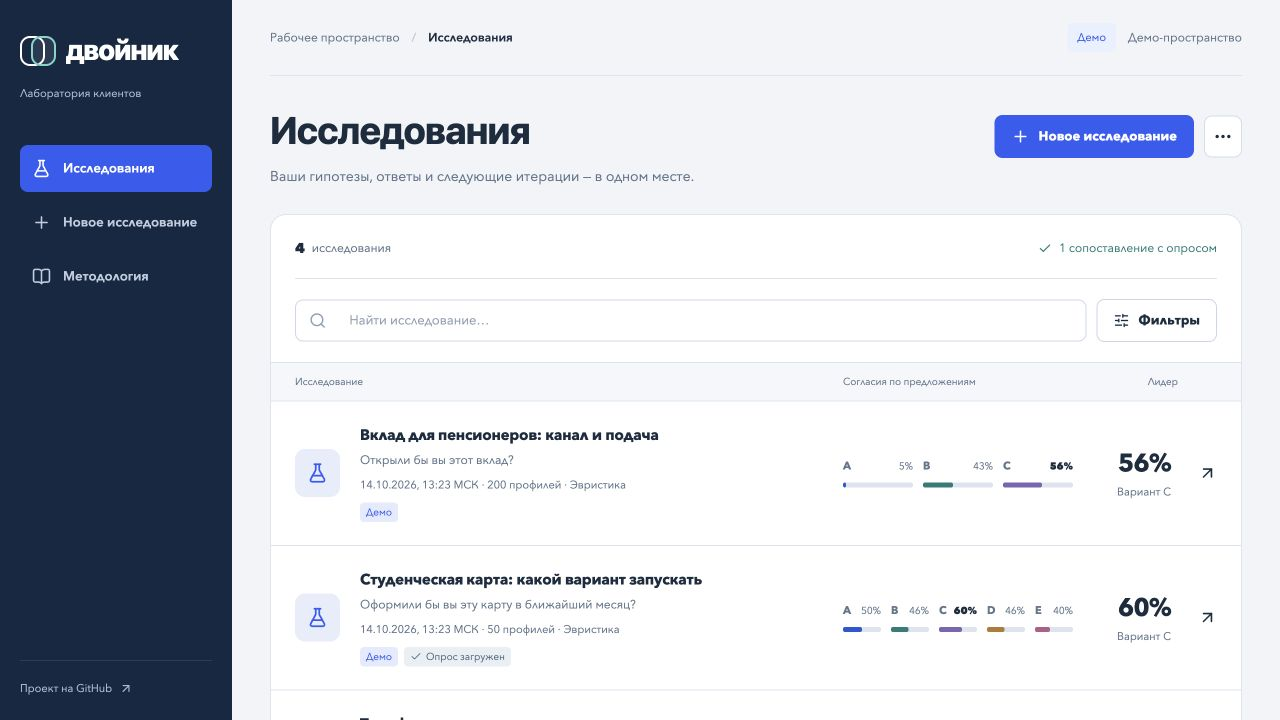
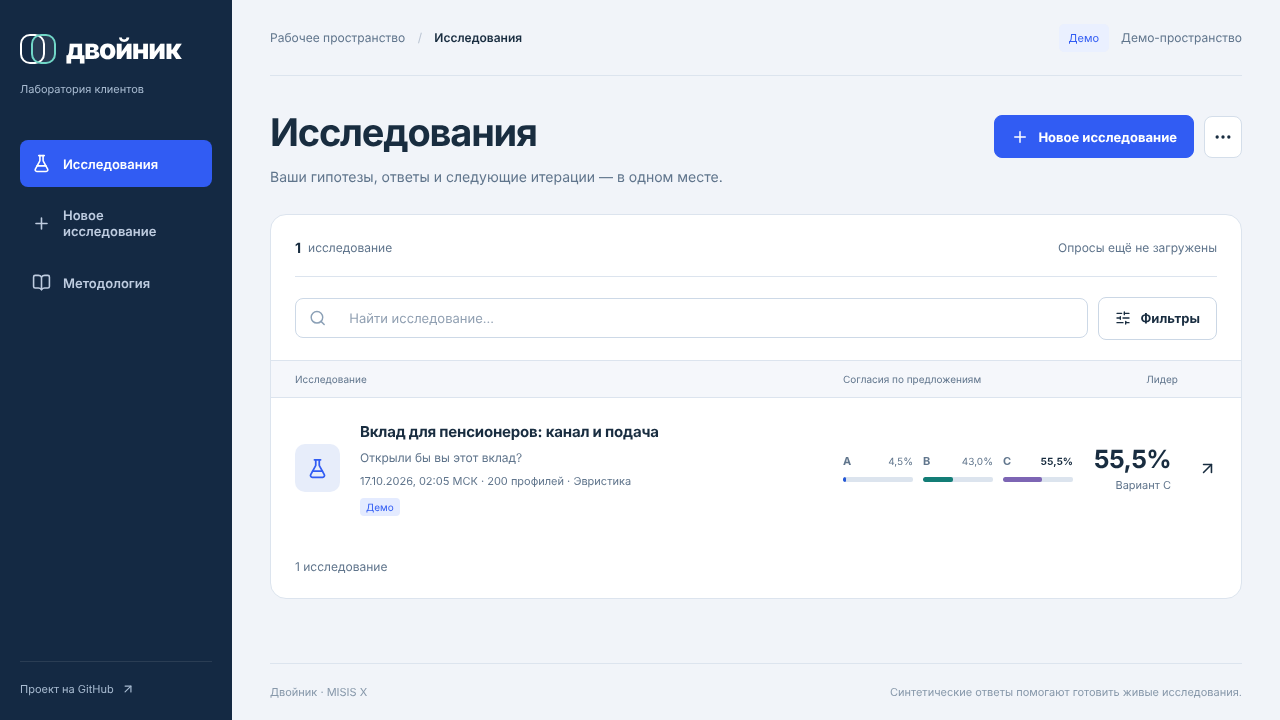
Document quality checks, live-check plan, run estimate and LLM cache; refresh screenshots
Claude-Session: https://claude.ai/code/session_01ShzBLrsk3WfFZuJPgdYgMs

diff --git a/README.md b/README.md
@@ -24,7 +24,10 @@
 | Популяция | Семь экспертных сегментов, настройка долей и точное число профилей после округления |
 | Симуляция | Демо без внешних запросов и OpenAI-совместимый LLM API; одинаковые профили для вариантов, фактический прогресс |
 | Результат | Матрица сегментов, разбор аудитории, интервалы, причины отказа и синтетические объяснения |
-| Живая проверка | Комплект опроса с анкетой и пустым CSV, предпросмотр ответов, ошибка долей, ранги и лидер; сохранение с защитой от конфликтов двух сессий |
+| Проверки качества | Сравнение с простым подходом (один запрос без персонажей), устойчивость лидера, предупреждение об однородных ответах LLM, повторы с соседними seed в CLI |
+| План живой проверки | Размер выборки для различения лидеров, предел разведки на 30 ответах, сегменты для отдельной проверки, вопросы для интервью из частых возражений |
+| Живая проверка | Комплект опроса с анкетой, пустым CSV и планом выборки, предпросмотр ответов, ошибка долей, ранги и лидер, ошибки двойников и простого подхода на одних данных; сохранение с защитой от конфликтов двух сессий |
+| Оценка запуска | Число запросов, токены и время до старта LLM-запуска; необязательный кэш проверенных ответов для следующих итераций |
 | Архив | Поиск, раскрываемые фильтры с индикатором, сравнение запусков, следующая итерация из снимка, импорт JSON и экспорт JSON/CSV |
 | Доступ | Локальные аккаунты, роли и архивы владельцев, HttpOnly-сессии, защита запросов и закрытые скачивания |
 
@@ -78,8 +81,10 @@ DVOINIK_AUTH_MODE=demo python serve.py
 
 ## От симуляции к живому опросу
 
-На вкладке «Проверка опросом» скачайте комплект ZIP: анкету с сохранёнными предложениями
-и вопросом, CSV для записи ответов и инструкцию исследователю. Анкета открывается в браузере
+На вкладке «Проверка опросом» сначала посмотрите план: сколько оценок нужно, чтобы различить
+лидеров симуляции, что заметит разведка на 30 ответах и какие вопросы задать в интервью.
+Затем скачайте комплект ZIP: анкету с сохранёнными предложениями и вопросом, CSV для записи
+ответов и инструкцию исследователю с тем же планом. Анкета открывается в браузере
 и подходит для печати; результаты симуляции, внутреннее описание и профили в неё не попадают.
 В интерфейсе можно раскрыть тексты анкеты и коды сегментов перед скачиванием.
 
@@ -92,6 +97,9 @@ DVOINIK_AUTH_MODE=demo python serve.py
 Загрузите заполненный CSV, изучите предпросмотр и сохраните проверку. Новая загрузка
 заменяет прежний опрос. Сопоставляйте варианты на сравнимых аудиториях: согласие в анкете
 не означает реальное оформление продукта и не подтверждает точность MVP.
+Если в снимке есть оценка простым подходом, рядом показывается, чья ошибка на этом опросе меньше.
+
+![План живой проверки: размер выборки и вопросы для интервью](docs/images/live-check.png)
 
 ![Подготовка опроса и загрузка ответов](docs/images/survey-preparation.png)
 

diff --git a/docs/development.md b/docs/development.md
@@ -137,7 +137,24 @@ DVOINIK_MOCK=0 LLM_BASE_URL=http://localhost:11434/v1 LLM_MODEL=qwen2.5:7b-instr
 параллельность ограничена. Неверный JSON и ошибки отделены от «нет», показывается покрытие.
 LLM-клиент закрывается после запуска. Seed воспроизводит профили и демо, не гарантирует ответы LLM.
 
+После симуляции выполняется один дополнительный запрос «простого подхода» без персонажей
+(температура 0); его ошибка не прерывает исследование и сохраняется в снимке.
+На шаге аудитории показывается оценка запуска: число запросов, токены и время.
+Задержку и цену можно уточнить через `DVOINIK_LLM_LATENCY_S` и `DVOINIK_PRICE_PER_1K_TOKENS`
+(`DVOINIK_PRICE_CURRENCY`, по умолчанию ₽); без цены показываются только объёмы.
+
+`DVOINIK_LLM_CACHE=1` включает кэш проверенных ответов в `llm_cache.sqlite3` рядом с архивом
+(путь меняется через `DVOINIK_LLM_CACHE_PATH`). Ключ — модель, адрес API, температура и полный
+текст запроса: повтор итерации с теми же текстами и профилями не тратит запросы, а изменённое
+предложение запрашивается заново. Ошибки и ответы с неверной схемой не кэшируются.
+
 ## Опрос, импорт и CLI
+
+Устойчивость лидера к другой выборке профилей проверяется повторами с соседними seed:
+
+```bash
+python cli.py student_card --n 200 --mock --repeats 5
+```
 
 CSV UTF-8: `segment,variant,decision`, одна оценка на строку; decision 0/1.
 В шаблоне решения пустые; заполните их настоящими ответами на сохранённые тексты и удалите
